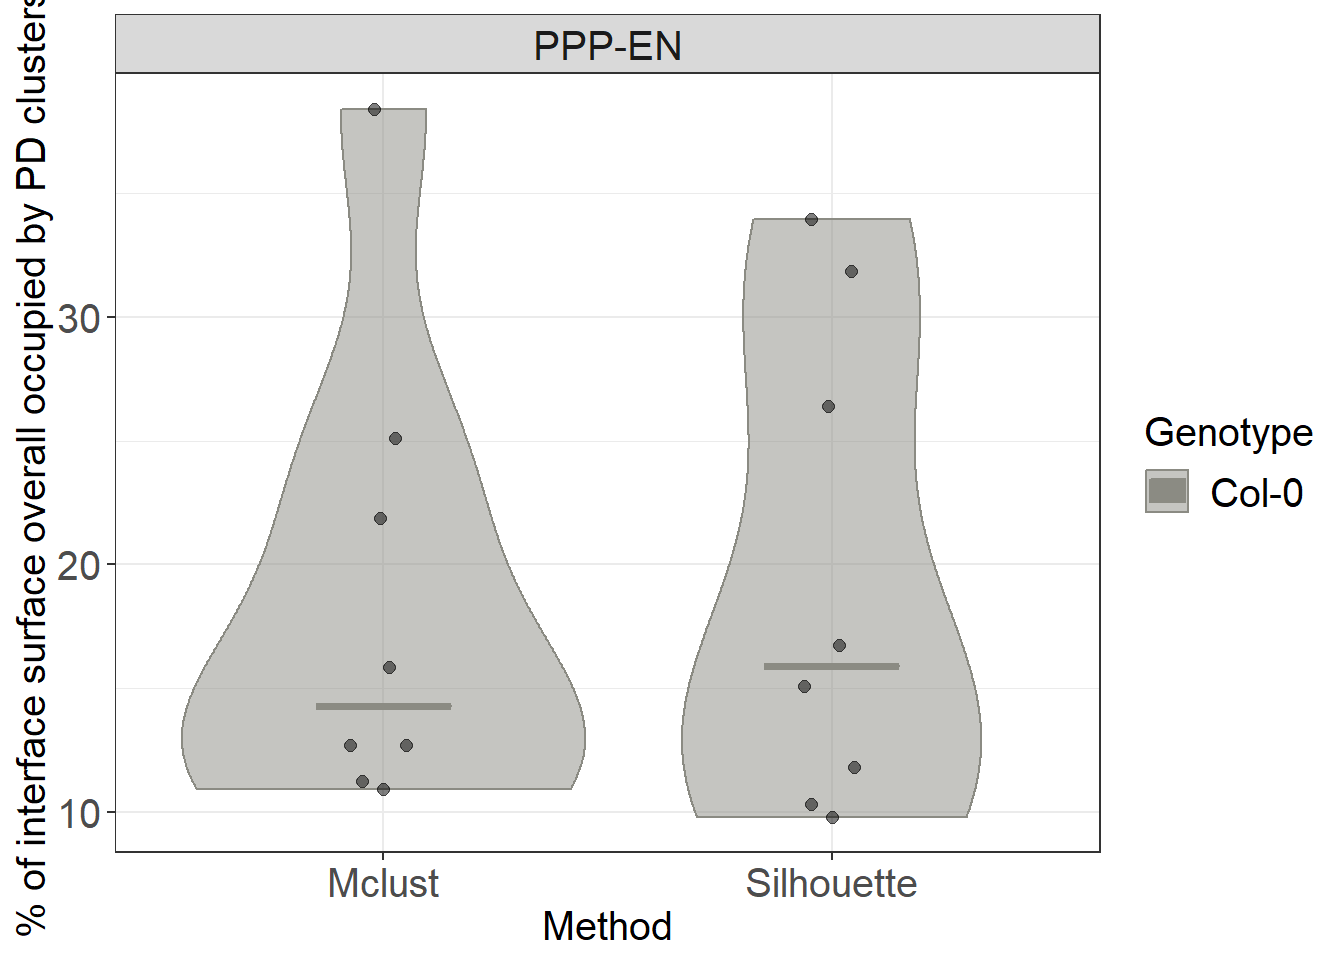
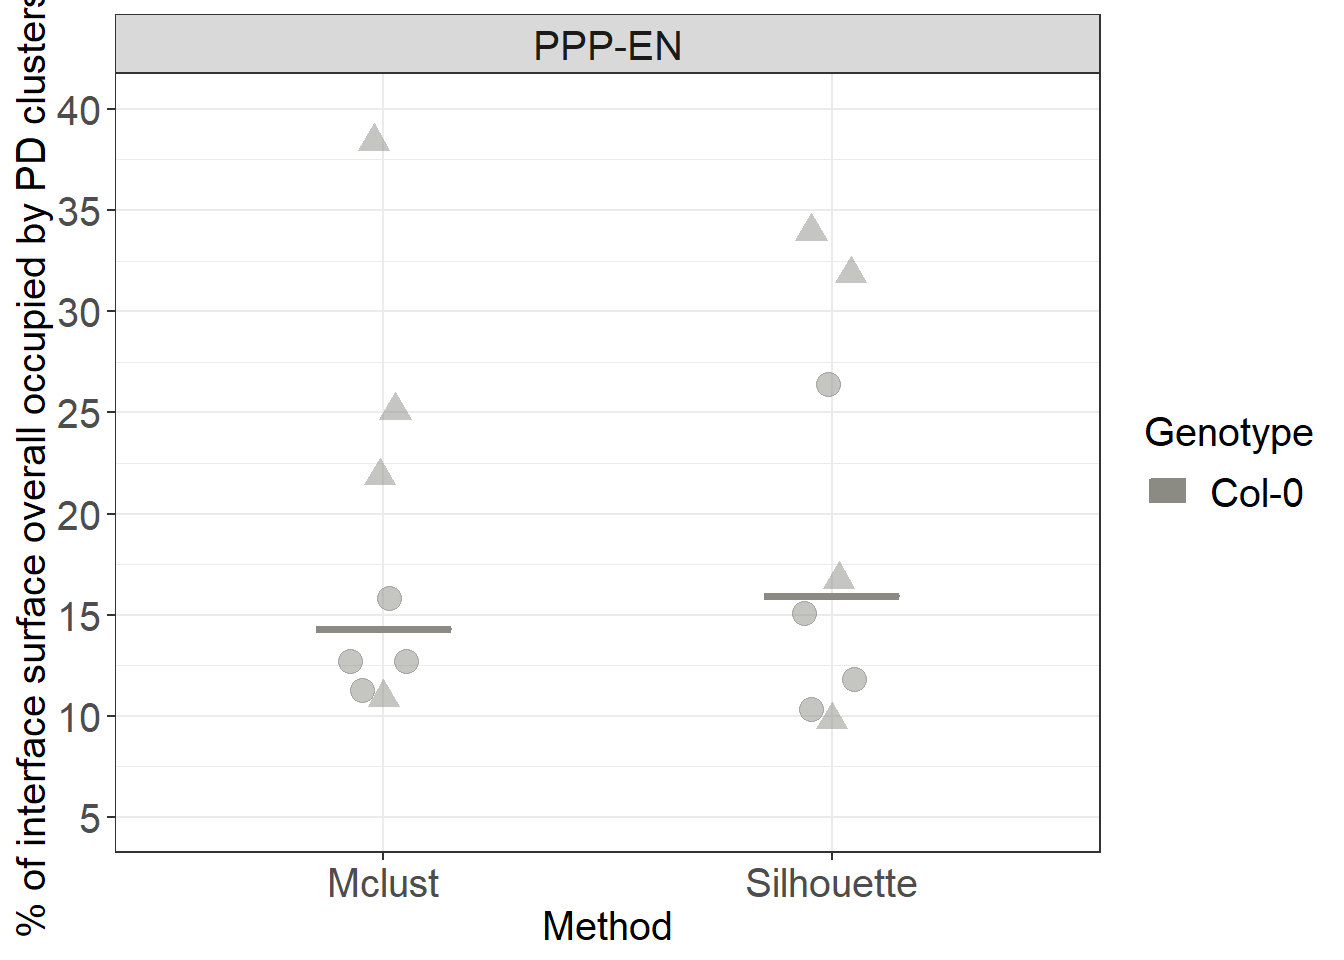
edits to code

diff --git a/distributions.html b/distributions.html
@@ -632,7 +632,7 @@ Col_0_subset %&gt;%
 <p><br></p>
 </div>
 <div id="ks-tests-and-plotting-of-cell-values" class="section level1">
-<h1>ks tests and plotting of cell values</h1>
+<h1>KS tests and plotting of cell values</h1>
 <p><br></p>
 <pre class="r"><code>#library(broom) called in the function so no need to load it
 
@@ -666,13 +666,30 @@ Col_0_dists &lt;- Col_0_dists %&gt;%
   mutate(ks = map2(dist_real, dist_sim, tidy_ks)) %&gt;% 
   unnest(ks)
 
-# we can already assess the significance of the results based on number of cases with a non significant test result 
-# histograms can then we generated based on these results
+# we can already assess the significance of the results based on the p values 
 
-non_signif &lt;- filter(Col_0_dists, p.value &gt; 0.05)
-# 0 so all the tests suggest a difference between each of the 1000 simulated distributions and the real one (in terms of distances)
+# now we look at the distribution of p values
 
-# we can then look at variation between cells of the same genotype
+Col_0_dists %&gt;%
+  ggplot(aes(p.value, group=DatasetFilename, fill=Interface, colour=Interface)) + 
+  theme_bw() +
+  geom_density(size = 1, alpha = 0.3) +
+  theme(legend.position = &quot;bottom&quot;) +
+  geom_vline(xintercept=0.05, colour=&quot;red&quot;, size=0.80) + 
+  labs(x = &quot;p.value&quot;, y = &quot;Density&quot;) +
+  theme(axis.title.x = element_text(size = 15), 
+        axis.title.y = element_text(size = 15), 
+        axis.text.x = element_text(size = 15), 
+        axis.text.y = element_text(size = 15),
+        strip.text.x = element_text(size = 15), 
+        strip.text.y = element_text(size = 15),
+        legend.title = element_text(size = 10),
+        legend.text = element_text(size = 10)) +
+  # we use a log scale to better visualise the values 
+  scale_x_log10() +
+  facet_grid(Genotype~.)</code></pre>
+<p><img src="distributions_files/figure-html/unnamed-chunk-6-1.png" width="672" /></p>
+<pre class="r"><code># we can then look at variation between cells of the same genotype
 
 Col_0_dists %&gt;% 
   ggplot(aes(statistic, colour = DatasetFilename, fill= DatasetFilename)) +
@@ -687,10 +704,10 @@ Col_0_dists %&gt;%
   theme(legend.title = element_text(size = 10),
         legend.text = element_text(size = 10)) +
   facet_grid(Genotype~Interface) </code></pre>
-<p><img src="distributions_files/figure-html/unnamed-chunk-6-1.png" width="672" /> <br></p>
+<p><img src="distributions_files/figure-html/unnamed-chunk-6-2.png" width="672" /> <br></p>
 </div>
-<div id="ks-values-for-genotype" class="section level1">
-<h1>ks values for genotype</h1>
+<div id="ks-values-for-genotypes" class="section level1">
+<h1>KS values for genotype(s)</h1>
 <p><br></p>
 <pre class="r"><code>#library(dplyr) called in the function so no need to load it
 
@@ -718,25 +735,37 @@ distances_cell$Cell &lt;- gsub(&quot;.*PPP&quot;, &quot;PPP&quot;, distances_cel
 
 # we are now going to plot the data for all the cells (violin plots) and for single cells (symbols) at the same time. Bars of corresponding colours will indicate medians
 
-Col_0_dists %&gt;% 
-  ggplot(aes(x= Genotype, y=statistic, colour= Genotype, fill= Genotype)) + 
-  # we plot the values for all cells
-  geom_violin(alpha=0.5) + 
+distances_cell %&gt;% 
+  ggplot(aes(x= Genotype, y=mean_ks, colour= Genotype, fill= Genotype)) + 
+  # we plot the values for the single cells
+  ggbeeswarm::geom_quasirandom(aes(shape=DatasetFilename), width = 0.2, size= 4, alpha=0.5, dodge.width = 0.2, show.legend = FALSE) +
   stat_summary(fun.y = median, fun.ymin = median, fun.ymax = median,
-               geom = &quot;crossbar&quot;, size = 0.5, width = 0.3, alpha=1) +
-  # now we plot those for the single cells
-  geom_point(data = distances_cell, aes(x= Genotype, y= mean_ks, shape=DatasetFilename), colour=&quot;black&quot;, fill=&quot;black&quot;, size= 2, alpha=0.5, show.legend = FALSE ) +
-  stat_summary(data = distances_cell, aes(x= Genotype, y= mean_ks), fun.y = median, fun.ymin = median, fun.ymax = median,
-               geom = &quot;crossbar&quot;, size = 0.5, width = 0.3, alpha=1, colour=&quot;black&quot;) + 
+               geom = &quot;crossbar&quot;, size = 0.5, width = 0.3, alpha=1) + 
   geom_hline(yintercept=0, colour=&quot;red&quot;, size=0.75) + 
   labs(y = &quot;Ks statistic test value&quot;) +
+  theme(legend.position = &quot;none&quot;) +
   # we have 2 different roots or datsets here so we provide two symbols to differenciate them
   scale_shape_manual(values=c(19, 17)) +
+  scale_y_continuous(limits = c(0, 0.3)) +
   # we have one single genotype here
   scale_color_manual(values=c(&quot;#8B8B83&quot;)) +
   scale_fill_manual(values=c(&quot;#8B8B83&quot;)) +
   facet_grid(~Interface)</code></pre>
 <p><img src="distributions_files/figure-html/unnamed-chunk-7-1.png" width="672" /> <br></p>
+</div>
+<div id="sampling-of-the-datasets" class="section level1">
+<h1>Sampling of the datasets</h1>
+<p><br></p>
+<pre class="r"><code># to replicare what we did in the paper (manipulatig the nuber of points to test the robustness of the outcome) there is a convenient function in R 
+# take the Col objects 
+# use the sample_n to randomly take a subset of the given ones. Size corresponds to the number of points we sample.Here are 37 
+
+real_subset &lt;- Col_real %&gt;% group_by(Genotype, Interface, DatasetFilename, IterationNumber) %&gt;%
+  sample_n(size=37)
+
+simulated_subset &lt;- Col_simul %&gt;% group_by(Genotype, Interface, DatasetFilename, IterationNumber) %&gt;%
+  sample_n(size=37)</code></pre>
+<p><br></p>
 <p>You have now completed this section: in the case of the data we provided we have shown that plasmodesmata display a bias in their distribution (when compared to uniform distributions). In the <a href="clusters.html">next section</a> we will ask further questions about the this spatial bias we detected.</p>
 <p><br></p>
 </div>

diff --git a/surfaces.html b/surfaces.html
@@ -541,7 +541,6 @@ calculate_areas_sil &lt;- function(x){
   return(area_of_clusters)
 }
 
-
 # a nearly identical second function is created for the Mclust method
 
 calculate_areas_class &lt;- function(x){
@@ -590,7 +589,7 @@ area_for_method_class &lt;- clusters_processed %&gt;%
 clusters_unnested &lt;- bind_rows(area_for_method_class, area_for_method_sil)</code></pre>
 <p><br></p>
 </div>
-<div id="surf1" class="section level1">
+<div id="calculating-the-median-total-conductive-surface-of-an-interface-as" class="section level1">
 <h1>Calculating the median total conductive surface of an interface (as %)</h1>
 <p><br></p>
 <pre class="r"><code># we now ask how much of the total surface (the gray shaded area we calculated in previous steps) is occupied by PD clusters
@@ -599,18 +598,20 @@ clusters_unnested &lt;- bind_rows(area_for_method_class, area_for_method_sil)</c
 #the easiest way is to subset the dataset only for relevant columns and then use unique
 
 ggplot(data=unique(clusters_unnested[, c(&quot;Genotype&quot;, &quot;Interface&quot;, &quot;DatasetFilename&quot;, &quot;Cell&quot;, &quot;perc_tot&quot;, &quot;Method&quot;)]), aes(x= Method, y=perc_tot, colour= Genotype, fill= Genotype)) +
-  geom_violin(alpha=0.5)+ 
-  ggbeeswarm::geom_quasirandom(aes(group=Genotype), colour=&quot;black&quot;, fill=&quot;black&quot;, size= 2, alpha=0.5, width=0.1, show.legend = FALSE, dodge.width = 0.9) +
+    # we use shape = to characterise the points according to which root (datset they belong to)
+  ggbeeswarm::geom_quasirandom(aes(shape=DatasetFilename,group=Genotype), size= 4, alpha=0.5, width=0.1, show.legend = FALSE, dodge.width = 0.9) +
   stat_summary(fun.y = median, fun.ymin = median, fun.ymax = median,
                geom = &quot;crossbar&quot;, size = 0.5, width = 0.3, alpha=1)  + 
   labs(y = &quot;% of interface surface overall occupied by PD clusters&quot;) +
   scale_color_manual(values=c(&quot;#8B8B83&quot;)) +
   scale_fill_manual(values=c(&quot;#8B8B83&quot;)) +
-  facet_grid(~Interface) </code></pre>
+  facet_grid(~Interface) +
+  scale_y_continuous(limits= c(5,40), breaks = c(5,10,15,20,25,30,35,40)) +
+  scale_shape_manual(values=c(19,17))</code></pre>
 <p><img src="surfaces_files/figure-html/unnamed-chunk-4-1.png" width="672" /></p>
 <p><br></p>
 </div>
-<div id="surf2" class="section level1">
+<div id="calculating-the-median-surface-of-individual-clusters-as" class="section level1">
 <h1>Calculating the median surface of individual clusters (as %)</h1>
 <p><br></p>
 <pre class="r"><code># to calculate the surface of individual clusters independently we don&#39;t need to subset the data
@@ -698,17 +699,29 @@ Col_area$DatasetFilename &lt;- gsub(&quot;_ContactArea3D_wall.csv&quot;, &quot;&
 <pre class="r"><code># because in some cases multiple objects were generated (despite having a single cellular interface) we merge those multiple objects into a single one
 Col_area_corrected &lt;- Col_area %&gt;% group_by(Genotype, Interface, DatasetFilename) %&gt;% dplyr::summarise(total_surface = sum(SurfaceArea, na.rm = TRUE))
 
+# we are going to clean the DatasetFilename column as we did elsewhere in this pipeline
+# we are going to duplicate the dataset column first 
+Col_area_corrected$Cell = Col_area_corrected$DatasetFilename
+
+#in the dataset filename column we remove anything after _DNN
+Col_area_corrected$DatasetFilename &lt;- gsub(&quot;_PPP.*&quot;,&quot;&quot;, Col_area_corrected$DatasetFilename)
+
+# in the column cell we remove anything before the name of the cell
+Col_area_corrected$Cell &lt;- gsub(&quot;.*PPP&quot;, &quot;PPP&quot;, Col_area_corrected$Cell)
+
 # we plot it
 Col_area_corrected %&gt;%
   ggplot(aes(x= Genotype, y=total_surface, colour= Genotype, fill= Genotype)) +
-  geom_violin(alpha=0.5) + 
   stat_summary(fun.y = median, fun.ymin = median, fun.ymax = median,
                geom = &quot;crossbar&quot;, size = 0.5, width = 0.3, alpha=1)  + 
-  ggbeeswarm::geom_quasirandom(colour=&quot;black&quot;, fill=&quot;black&quot;, size= 2, alpha=0.5, width=0.1, show.legend = FALSE, dodge.width = 0.5) +
+  ggbeeswarm::geom_quasirandom(aes(shape=DatasetFilename), size= 4, alpha=0.5, width=0.1, show.legend = FALSE, dodge.width = 0.3) +
   labs(y = &quot;Surface area of the cell (um^2)&quot;) +
+  theme(legend.position = &quot;none&quot;) +
   scale_color_manual(values=c(&quot;#8B8B83&quot;)) +
   scale_fill_manual(values=c(&quot;#8B8B83&quot;)) +
-  facet_grid(~Interface) </code></pre>
+  facet_grid(~Interface) +
+  scale_y_continuous(limits= c(60,130), breaks = c(60,70,80,90,100,110,120,130,140)) +
+  scale_shape_manual(values=c(19,17))</code></pre>
 <p><img src="surfaces_files/figure-html/unnamed-chunk-8-1.png" width="672" /></p>
 <p><br></p>
 <p>Using the median value of the surface and the median values of the percentages that we obtained <a href="#surf1">above</a> we can manually get estimates in um^2 of the conductive surface in cells and of the surface of the single clusters.</p>

diff --git a/wall.html b/wall.html
@@ -511,28 +511,41 @@ Col_0$DatasetFilename &lt;- gsub(&quot;_PPP.*&quot;,&quot;&quot;, Col_0$DatasetF
 # in the column cell we remove anything before the name of the cell
 Col_0$Cell &lt;- gsub(&quot;.*PPP&quot;, &quot;PPP&quot;, Col_0$Cell)
 
+# PLOT VALUES FOR ONE CELL
+
+ggplot(data=filter(Col_0, DatasetFilename==&quot;170314_Col_HD_R20_339-381um_DNN&quot; &amp; Cell==&quot;PPP1-EN&quot;), aes(x = Positions, y = Thickness_nm, fill=Positions, colour=Positions)) +  geom_violin(alpha=0.25) + theme_bw() +
+  stat_summary(fun.y = median, fun.ymin = median, fun.ymax = median, geom = &quot;crossbar&quot;, size = 0.3, width = 0.4, alpha=1) +
+  labs(x = &quot;Positions&quot;, y = &quot;Wall thickness (nm)&quot;) + 
+  theme(legend.position = &quot;none&quot;)  +
+  # the log scale is useful here because of the range of values
+  scale_y_log10() + 
+  facet_wrap(DatasetFilename~Cell)</code></pre>
+<p><img src="wall_files/figure-html/unnamed-chunk-3-1.png" width="672" /></p>
+<pre class="r"><code># PLOT VALUES FOR MULTIPLE CELLS (and multiple genotypes)
+
 # we summarise the values of thickness for each cell
 stats &lt;- Col_0 %&gt;% 
   group_by(Genotype, Interface, DatasetFilename, Cell, Positions) %&gt;% 
   dplyr::summarise(mean_thickness = mean(Thickness_nm))
 
-# plot 
+# we drop the violins from the plot
 
 # we introduce a dodge graphical parameter to better space the groups
 dodge &lt;- position_dodge(width = 0.4)
 
-ggplot(Col_0, aes(x = Positions, y = Thickness_nm, fill=Positions, colour=Positions)) +
-  geom_violin(alpha=0.25) +
+ggplot(data=stats, aes(x = Positions, y = mean_thickness, fill=Genotype, colour=Genotype, group = factor(Genotype))) + theme_bw() +
   stat_summary(fun.y = median, fun.ymin = median, fun.ymax = median,
-              geom = &quot;crossbar&quot;, size = 0.3, width = 0.4, alpha=1) +
-  stat_summary(data=stats, aes(x = Positions, y = mean_thickness), fun.y = median, fun.ymin = median, fun.ymax = median,
-               geom = &quot;crossbar&quot;, size = 0.3, width = 0.4, colour=&quot;black&quot;, alpha=1) +
-  ggbeeswarm::geom_quasirandom(data=stats, aes(x = Positions, y = mean_thickness, shape=DatasetFilename), width = 0.2, size= 2, colour=&quot;black&quot;, alpha=0.5) +
-  labs(x = &quot;Positions&quot;, y = &quot;Wall thickness (nm)&quot;) + 
-  theme(legend.position = &quot;none&quot;)  + 
-  scale_y_log10() + 
-  facet_grid(~Interface)</code></pre>
-<p><img src="wall_files/figure-html/unnamed-chunk-3-1.png" width="672" /></p>
+               geom = &quot;crossbar&quot;, size = 0.4, width = 0.5, alpha=1, position = dodge) +
+  # we differentiate the roots (datasets) via different shapes
+  ggbeeswarm::geom_quasirandom(aes(shape=DatasetFilename, fill=Genotype, colour=Genotype), width = 0.2, size= 2, alpha=0.5, dodge.width = 0.8, show.legend = FALSE) +
+  labs(x = &quot;Positions&quot;, y = &quot;Wall thickness (nm)&quot;) +
+  facet_grid(~Interface) +
+  # here the manual scales are a bit redundant but useful when multiple genotypes present
+  scale_color_manual(values=c(&quot;#000000&quot;)) +
+  scale_fill_manual(values=c(&quot;#000000&quot;)) +
+  scale_y_continuous(limits = c(20,180)) +
+  scale_shape_manual(values=c(19,17))</code></pre>
+<p><img src="wall_files/figure-html/unnamed-chunk-3-2.png" width="672" /></p>
 <p>We have reached the end of this guided pipeline. We hope you will employ the tools we developed for the Plasmodesmata community. Please feel free to share feedback!</p>
 <p>Good luck with your research!</p>
 </div>

diff --git a/clusters.html b/clusters.html
@@ -569,14 +569,16 @@ clusters_count &lt;- rbind(clusters_sil, clusters_mc)
 
 clusters_count %&gt;%
   ggplot(aes(x= Method, y=n, colour= Genotype, fill= Genotype)) +
-  geom_violin(alpha=0.5) + 
   stat_summary(fun.y = median, fun.ymin = median, fun.ymax = median,
                geom = &quot;crossbar&quot;, size = 0.5, width = 0.3, alpha=1)  + 
-  ggbeeswarm::geom_quasirandom(data= clusters_count, aes(group=Genotype), colour=&quot;black&quot;, fill=&quot;black&quot;, size= 2, alpha=0.5, width=0.1, show.legend = FALSE, dodge.width = 0.9) +
+  # we use shape = to characterise the points according to which root (datset they belong to)
+  ggbeeswarm::geom_quasirandom(data= clusters_count, aes(shape=DatasetFilename, group=Genotype), size= 4, alpha=0.5, width=0.1, show.legend = FALSE, dodge.width = 0.9) +
   labs(y = &quot;n of clusters per cell&quot;) +
-  scale_color_manual(values=c(&quot;#8B8B83&quot;, &quot;#008080&quot;)) +
-  scale_fill_manual(values=c(&quot;#8B8B83&quot;, &quot;#008080&quot;)) +
-  facet_grid(~Interface) </code></pre>
+  scale_color_manual(values=c(&quot;#8B8B83&quot;)) +
+  scale_fill_manual(values=c(&quot;#8B8B83&quot;)) +
+  facet_grid(~Interface) +
+  scale_y_continuous(limits= c(2,22), breaks = c(2,4,6,8,10,12,14,16, 18, 20, 22)) +
+  scale_shape_manual(values=c(19,17))</code></pre>
 <p><img src="clusters_files/figure-html/unnamed-chunk-4-1.png" width="672" /></p>
 <p><br></p>
 </div>
@@ -605,8 +607,8 @@ combined_count %&gt;%
   stat_summary(fun.y = median, fun.ymin = median, fun.ymax = median,
                geom = &quot;crossbar&quot;, size = 0.5, width = 0.3, alpha=1)  + 
   labs(y = &quot;n of PDs per cluster&quot;) +
-  scale_color_manual(values=c(&quot;#8B8B83&quot;, &quot;#008080&quot;)) +
-  scale_fill_manual(values=c(&quot;#8B8B83&quot;, &quot;#008080&quot;)) +
+  scale_color_manual(values=c(&quot;#8B8B83&quot;)) +
+  scale_fill_manual(values=c(&quot;#8B8B83&quot;)) +
   facet_grid(~Interface) +
   # we use a log scale to better visualise the range of data
   scale_y_log10()</code></pre>
